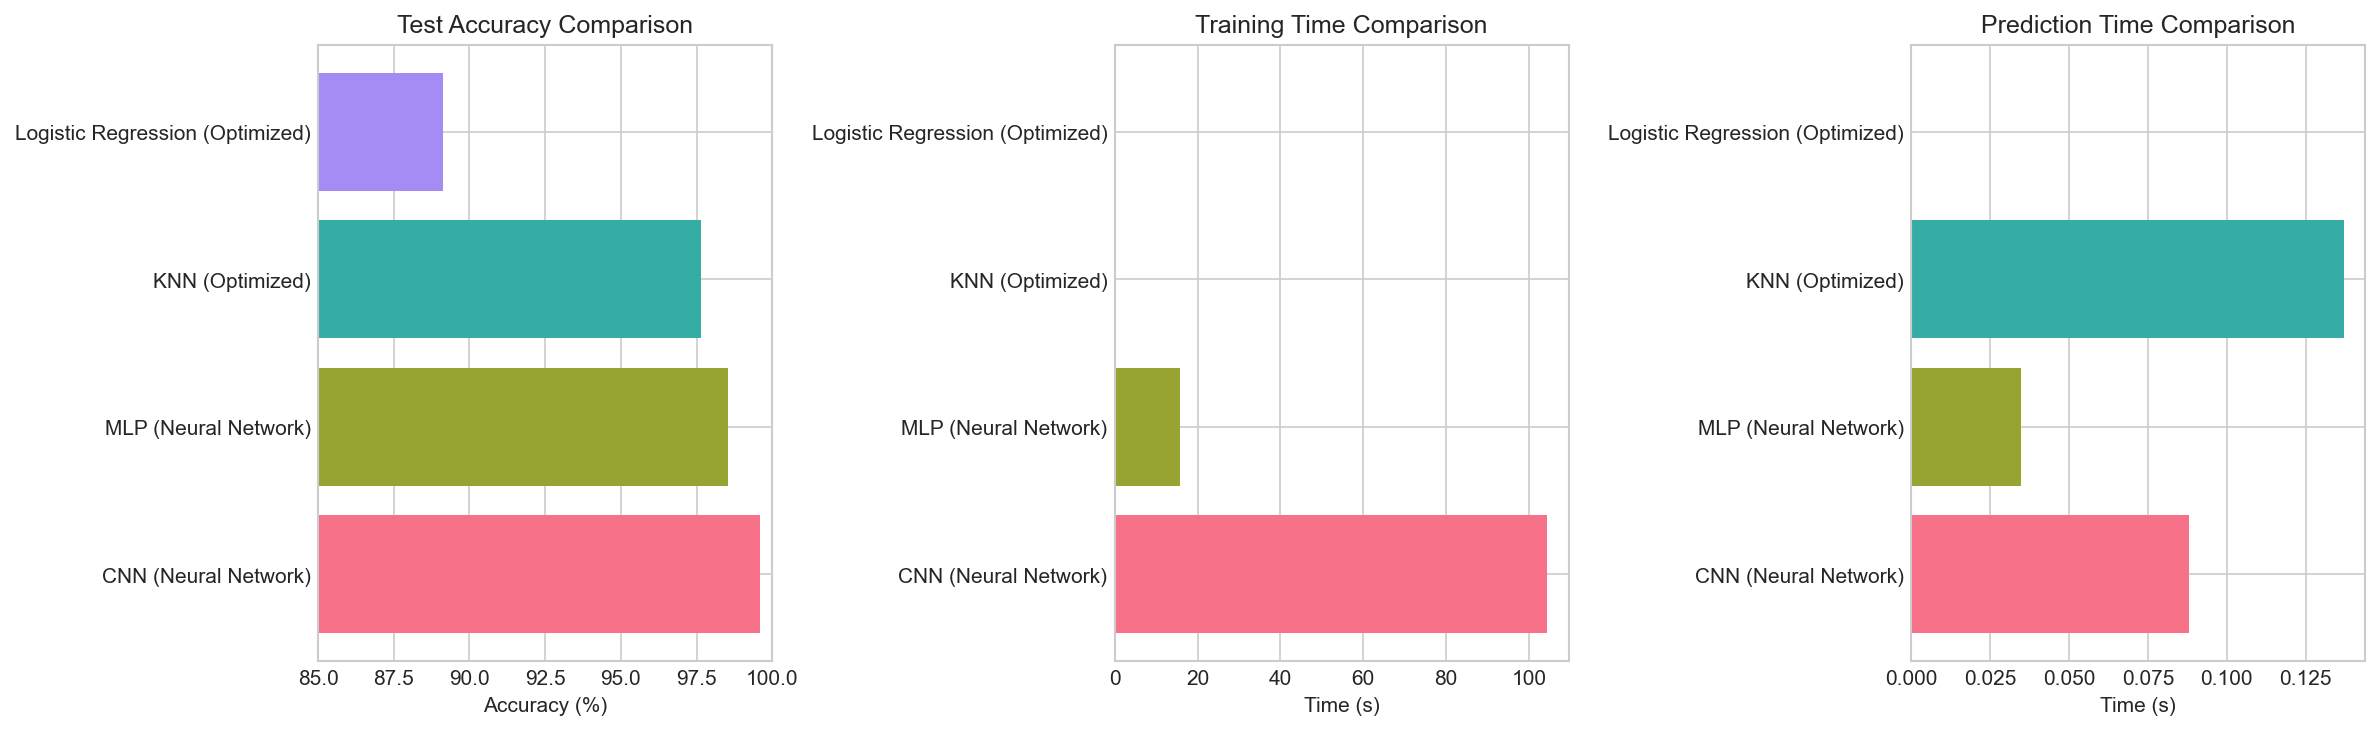
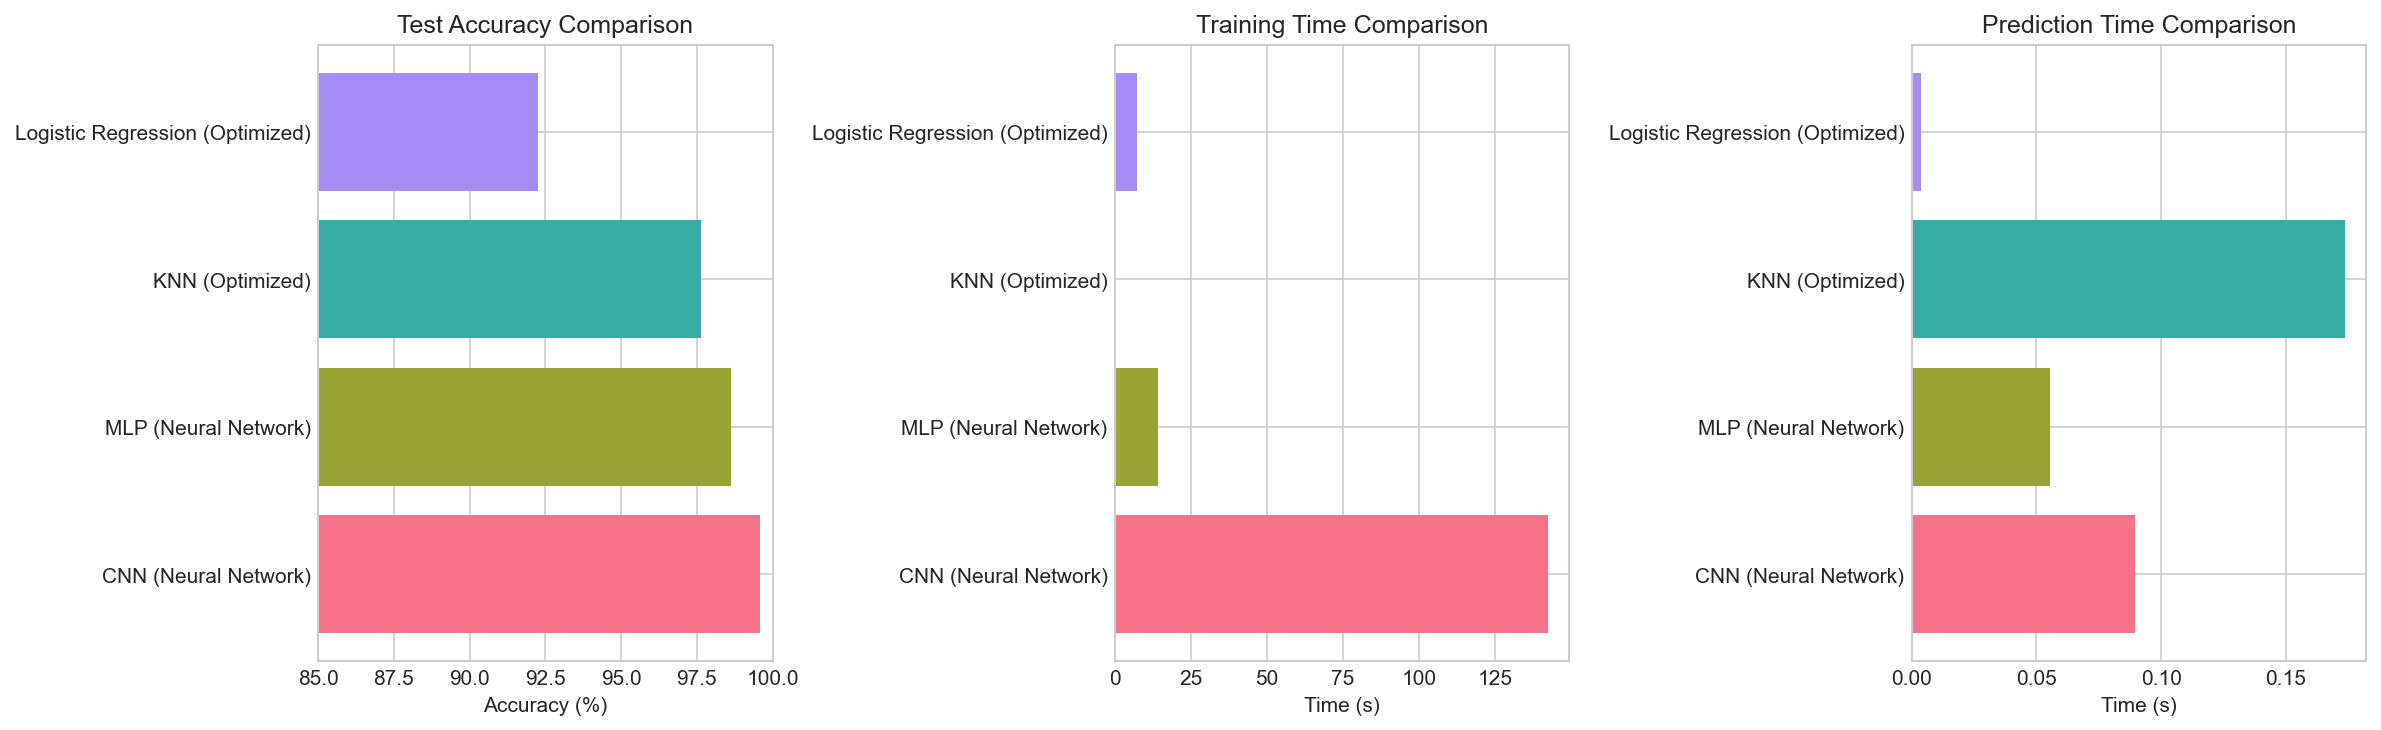
Fix 5 review issues: data leakage, early stopping, timing, augmentation, LR independence
1. Early stopping: use copy.deepcopy() for model weights instead of shallow copy
2. MPS/CUDA timing: add sync_device() before/after timing blocks
3. PCA data leakage: wrap KNN and LR in sklearn Pipeline so PCA fits within each CV fold
4. LR independence: give LR its own Pipeline with separate PCA search space (30-150D)
5. CNN augmentation: use custom AugmentedDataset with per-sample transforms in __getitem__

Updated README with corrected results (LR: 89% -> 92.25% with independent PCA(150D)).

diff --git a/README.md b/README.md
@@ -82,19 +82,20 @@ The notebook is organized into 6 sections:
 #### 3a. k-Nearest Neighbors (KNN)
 
 - **Algorithm**: Classifies by majority vote of k nearest training samples
+- **Pipeline**: `Pipeline(PCA + KNN)` -- PCA is fitted only within each CV fold, preventing data leakage
 - **Optimization pipeline**:
-  1. PCA dimensionality reduction -- test 30, 50, 100 components (reduces 784D to best dimension, speeds up distance computation)
-  2. GridSearchCV over k (1,3,5,7,9), distance metric (euclidean, manhattan), and voting weights (uniform, distance)
-  3. Train final model with best parameters on full training set
+  1. GridSearchCV over PCA components (30, 50, 100), k (1,3,5,7,9), distance metric (euclidean, manhattan), and voting weights (uniform, distance)
+  2. Train final pipeline with best parameters on full training set
 - **Output**: k vs. accuracy curve for all configurations
 
 #### 3b. Logistic Regression
 
 - **Algorithm**: Multinomial logistic regression with softmax for 10-class classification
+- **Pipeline**: Independent `Pipeline(PCA + LR)` with its own PCA search space (separate from KNN), PCA fitted within each CV fold
 - **Optimization pipeline**:
-  1. GridSearchCV over regularization strength C (0.01, 0.1, 1.0, 10.0) and solver (lbfgs, saga)
+  1. GridSearchCV over PCA components (30, 50, 100, 150), regularization strength C (0.01, 0.1, 1.0, 10.0), and solver (lbfgs, saga)
   2. L2 penalty for regularization
-  3. Train final model with best parameters (max_iter=2000)
+  3. Train final pipeline with best parameters (max_iter=2000)
 - **Output**: C vs. accuracy curve for different solvers
 
 #### 3c. Neural Network (Bonus)
@@ -151,20 +152,20 @@ Input(1x28x28)
 
 | Model | Test Accuracy | Training Time |
 |-------|--------------|---------------|
-| CNN (Neural Network) | **99.61%** | ~60s |
-| MLP (Neural Network) | 98.55% | ~30s |
+| CNN (Neural Network) | **99.58%** | ~120s |
+| MLP (Neural Network) | 98.62% | ~30s |
 | KNN (Optimized) | 97.65% | ~2s |
-| Logistic Regression | 89.13% | ~5s |
+| Logistic Regression | 92.25% | ~5s |
 
 > Training times measured on MacBook with Apple Silicon (MPS). Times vary by hardware.
 
 ### Key Findings
 
-- **CNN achieves the highest accuracy (99.61%)** by leveraging spatial structure of images through convolutional filters, combined with data augmentation (rotation/translation)
+- **CNN achieves the highest accuracy (99.58%)** by leveraging spatial structure of images through convolutional filters, combined with per-sample data augmentation (rotation/translation)
 - **KNN with PCA + distance-weighted voting** reaches 97.65% with minimal complexity -- PCA(30D) reduces computation while preserving discriminative information
-- **Logistic Regression** is limited by its linear decision boundary (~89%), demonstrating the need for non-linear models on image data
+- **Logistic Regression** with independent PCA(150D) pipeline achieves 92.25%, higher than without PCA optimization, but still limited by its linear decision boundary
 - **t-SNE** produces much clearer digit clusters than PCA in 2D, revealing which digits are visually similar (e.g., 4/9, 3/5)
-- Data augmentation improved CNN accuracy from 99.31% to 99.61%
+- All CV pipelines use `sklearn.pipeline.Pipeline` to prevent PCA data leakage across folds
 
 ## Dependencies
 
